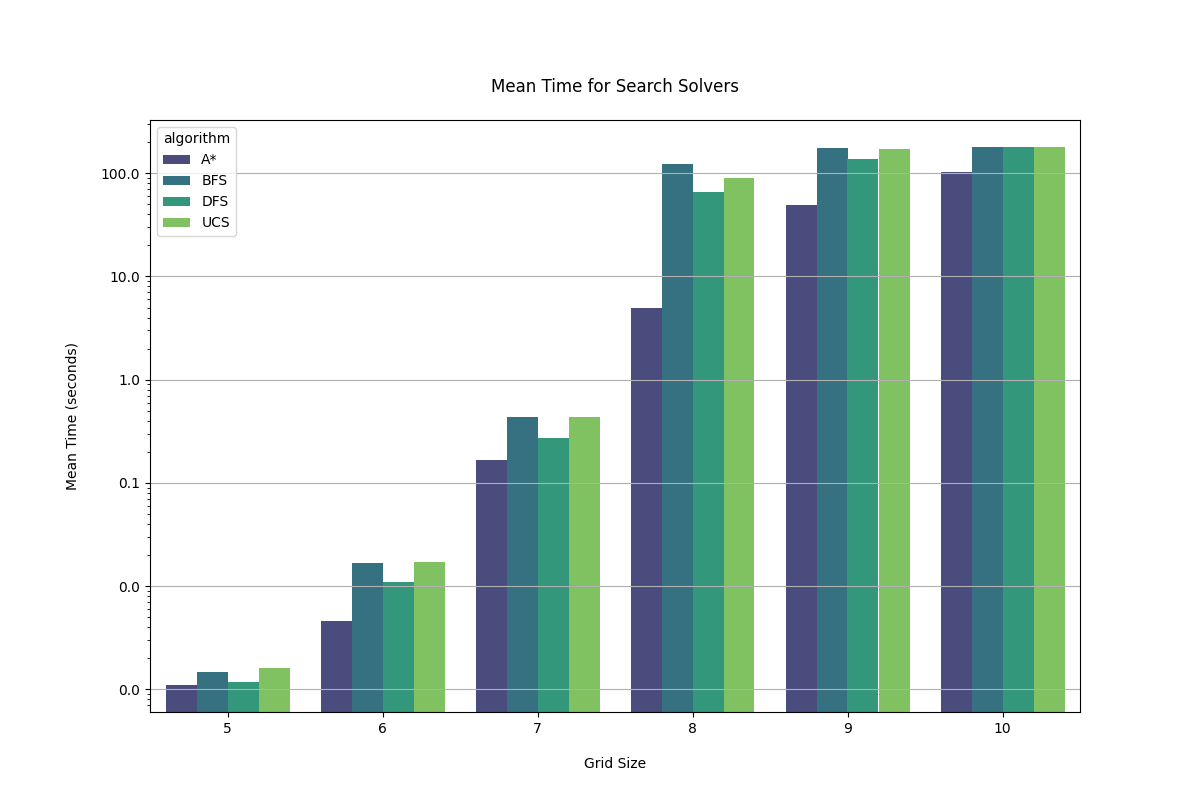
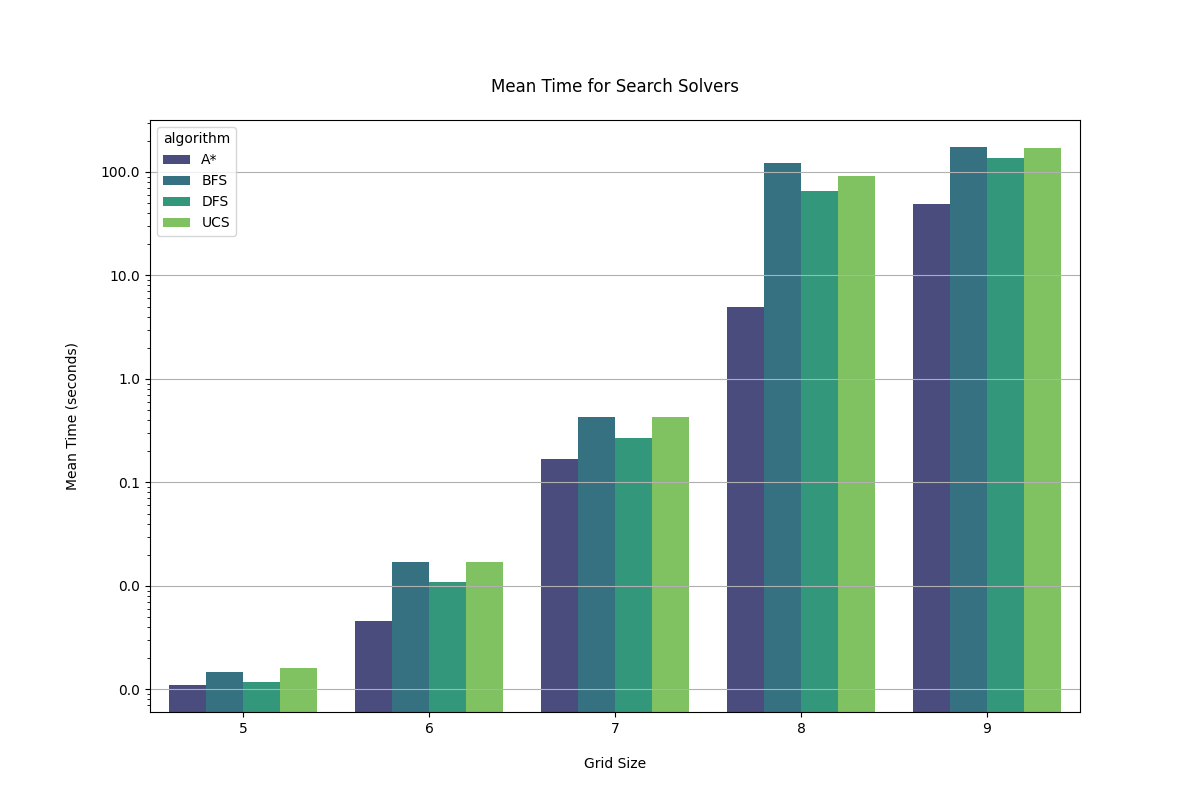
add some plots

Changed region(s): [[0.1542, 0.1562, 0.8942, 0.9062], [0.0925, 0.7188, 0.1233, 0.75], [0.0925, 0.1875, 0.1233, 0.2188]]

diff --git a/results/plots.py b/results/plots.py
@@ -3,6 +3,7 @@ import matplotlib.pyplot as plt
 import seaborn as sns
 from matplotlib.ticker import FuncFormatter
 import matplotlib.ticker as mticker
+import plotly.express as px
 
 MAX_TIME = 180
 
@@ -16,13 +17,11 @@ def load_results():
     search_results = pd.read_csv('Search_results.csv')
     return sat_results, search_results
 
-
-
 def create_single_search_algo_bar_plot(search_algo_name, total_results):
     """
     Create a bar plot of the search results for a single algorithm.
     :param search_algo_name: name of the search algorithm
-    :param total_results: total results to plot
+    :param total_results: total results of the search algorithms
     """
     # First, select all the results for the search algorithm name
     total_results = total_results[total_results['algorithm'] == search_algo_name]
@@ -66,8 +65,11 @@ def create_single_search_algo_bar_plot(search_algo_name, total_results):
     # Save the plot
     plt.savefig(f'{search_algo_name}_results.png')
 
-
 def create_expended_nodes_bar_plot_for_all_search_algorithms(total_results):
+    """
+    Create a bar plot of the mean number of expended nodes for all search algorithms.
+    :param total_results: total results to plot
+    """
     # Group the data by algorithm and grid size and calculate the mean number of expended nodes
     mean_expended_nodes = total_results.groupby(['algorithm', 'grid size'])['expended nodes'].mean().reset_index()
 
@@ -98,6 +100,10 @@ def create_expended_nodes_bar_plot_for_all_search_algorithms(total_results):
     plt.savefig('Search_Expended_Nodes_Results.png')
 
 def create_bar_plot_for_all_search_algorithms(total_results):
+    """
+    Create a bar plot of the mean time for all search algorithms.
+    :param total_results: total results of the search algorithms
+    """
     # create a bar plot for all search algorithms
     mean_times = total_results.groupby(['algorithm', 'grid size'])['time'].mean().reset_index()
 
@@ -127,8 +133,12 @@ def create_bar_plot_for_all_search_algorithms(total_results):
     # Save the plot
     plt.savefig('Search_results.png')
 
-
 def create_expended_nodes_bar_plot(search_algo_name, total_results):
+    """
+    Create a bar plot of the mean number of expended nodes for a single search algorithm.
+    :param search_algo_name: name of the search algorithm
+    :param total_results: total results of the search algorithms
+    """
     total_results = total_results[total_results['algorithm'] == search_algo_name]
     mean_times = total_results.groupby(['algorithm', 'grid size'])[
         'expended nodes'].mean().reset_index()
@@ -175,7 +185,6 @@ def create_expended_nodes_bar_plot(search_algo_name, total_results):
     # Save the plot
     plt.savefig(f'{search_algo_name}_expended_nodes_result.png')
 
-
 def create_sat_results_bar_plot(results):
     """
     Create a bar plot of the SAT results.
@@ -208,28 +217,206 @@ def clip_time(results):
     results['time'] = results['time'].clip(upper=MAX_TIME)
     return results
 
-def create_success_rate_graph(results):
-    pass
+def create_success_rate_chart(algorithm, search_results):
+    # Filter by the specified algorithm
+    search_results = search_results[search_results['algorithm'] == algorithm]
+
+    # Define success and failure based on time (<= 180 is success, > 180 is failure)
+    search_results['success'] = search_results['time'] <= 180
+
+    # Calculate the success and failure counts per grid size
+    success_failure_by_grid = search_results.groupby(
+        ['grid size', 'success']).size().reset_index(name='count')
+
+    # Calculate total count per grid size
+    total_by_grid = success_failure_by_grid.groupby('grid size')[
+        'count'].sum().reset_index(name='total')
+
+    # Merge total count with success_failure_by_grid to calculate percentages
+    success_failure_by_grid = success_failure_by_grid.merge(total_by_grid,
+                                                            on='grid size')
+    success_failure_by_grid['percentage'] = (success_failure_by_grid['count'] /
+                                             success_failure_by_grid[
+                                                 'total']) * 100
+
+    # Create a label column to identify success or failure
+    success_failure_by_grid['label'] = success_failure_by_grid[
+        'success'].apply(lambda x: 'Success' if x else 'Failure')
+
+    # Format the labels for the outer ring
+    success_failure_by_grid['outer_label'] = success_failure_by_grid.apply(
+        lambda row: f"Grid Size {row['grid size']} ",
+        axis=1)
+
+    # Create the sunburst chart using plotly express
+    fig = px.sunburst(
+        success_failure_by_grid,
+        path=['label', 'outer_label'],
+        values='count',
+        color='label',
+        color_discrete_map={'Success': '#63B2FF', 'Failure': '#FF6F61'},
+        hover_data={'percentage': ':'}
+    )
+
+    # Update the labels for the inner ring
+    fig.update_traces(textinfo='label+percent entry',
+                      texttemplate='%{label}: %{percentParent}')
+
+    # Update layout to include title with spacing
+    fig.update_layout(
+        title={
+            'text': f"{algorithm}: Success and Failure by Grid Size",
+            'x': 0.5,
+            'y': 0.95,  # Adjusted to give more space from the top
+            'xanchor': 'center',
+            'yanchor': 'top',
+            'pad': {'b': 10}  # Extra padding to prevent title cut off
+        },
+        sunburstcolorway=['#63B2FF', '#FF6F61'],
+        margin=dict(t=80, l=0, r=0, b=0),  # Added top margin for the title
+        uniformtext=dict(minsize=10, mode='hide'),
+    )
+
+    fig.write_image(f'{algorithm}_success_failure.png', width=800, height=600)
+
+def create_line_graph(search_results, sat_results):
+    # Group the search results by algorithm and grid size and calculate the mean time
+    mean_times = search_results.groupby(['algorithm', 'grid size'])['time'].mean().reset_index()
+
+    # Ensure both DataFrames have a common structure
+    sat_results['algorithm'] = 'SAT'  # Rename to just SAT for the legend
+
+    # Rename BFS in the search results to BFS (Baseline)
+    mean_times['algorithm'] = mean_times['algorithm'].replace('BFS', 'BFS (Baseline)')
+
+    # Merge the sat results with the search results
+    merged_results = pd.concat([mean_times, sat_results], axis=0)
+
+    # Create the line graph using plotly express with different markers and line styles
+    fig = px.line(
+        merged_results,
+        x='grid size',
+        y='time',
+        color='algorithm',
+        line_dash='algorithm',  # Use different line styles for each algorithm
+        markers=True,           # Add markers to each point
+        title='Time Taken by Algorithm and Grid Size'
+    )
+
+    # Update the layout to include a title with spacing and other customizations
+    fig.update_layout(
+        title={
+            'text': 'Mean Time for each Algorithm',
+            'x': 0.5,
+            'y': 0.95,
+            'xanchor': 'center',
+            'yanchor': 'top',
+            'pad': {'b': 10}
+        },
+        margin=dict(t=80, l=0, r=0, b=60),  # Further increase bottom margin
+        legend_title_text='Algorithm'  # Change legend title to 'Algorithm'
+    )
+
+    # Label x, y axes and ensure y-axis starts slightly below the minimum value
+    fig.update_xaxes(title_text='Grid Size')
+    fig.update_yaxes(title_text='Mean Time (seconds)', range=[-5, 200], tickvals=[0, 50, 100, 150, 180])
+
+    # Save the line graph
+    fig.write_image('All_Algorithms_Line_Graph.png')
+
+def compare_heuristics():
+    # Read the data into DataFrames
+    df_md = pd.read_csv("A_star_md.csv")
+    df_combined = pd.read_csv("A_star_good_heuristic.csv")
+
+    # Add a column to each DataFrame to indicate the heuristic type
+    df_md['Heuristic'] = 'Manhattan Distance Heuristic'
+    df_combined['Heuristic'] = 'Combined Heuristic'
+
+    # Concatenate the two DataFrames
+    df_combined = pd.concat([df_md, df_combined])
+
+    # Create a line plot comparing the two heuristics
+    fig = px.line(df_combined, x='level', y='expended nodes',
+                  color='Heuristic', markers=True,
+                  labels={
+                      "level": "Level",
+                      "expended nodes": "Expended Nodes",
+                      "Heuristic": "Heuristic"
+                  },
+                  title="Comparison of Nodes Expanded by Different Heuristics in A* Algorithm")
+
+    # save the plot
+    fig.write_image('Heuristic_Comparison.png')
+    # fig.show()
+
+def compare_state_space(results):
+    fig = px.line(
+        results,
+        x="level",
+        y="expended nodes",
+        color="state space",
+        line_dash="state space",
+        title="Number of Expended Nodes in BFS: Optimized vs Non-Optimized",
+        markers=True
+    )
+
+    fig.update_traces(line=dict(width=2))
+    fig.write_image('State_Space_Comparison.png')
+
+
+
+
+
+
 
 
 if __name__ == "__main__":
     sat_results, search_results = load_results()
-    search_results = clip_time(search_results)
+    # search_results = clip_time(search_results)
 
     # SAT results
     # create_sat_results_bar_plot(sat_results)
 
     # Search results
-    create_single_search_algo_bar_plot("BFS", search_results)
-    create_single_search_algo_bar_plot("DFS", search_results)
-    create_single_search_algo_bar_plot("UCS", search_results)
-    create_single_search_algo_bar_plot("A*", search_results)
-    create_expended_nodes_bar_plot("BFS", search_results)
-    create_expended_nodes_bar_plot("DFS", search_results)
-    create_expended_nodes_bar_plot("UCS", search_results)
-    create_expended_nodes_bar_plot("A*", search_results)
-    create_bar_plot_for_all_search_algorithms(search_results)
-    create_expended_nodes_bar_plot_for_all_search_algorithms(search_results)
+
+    # runtime
+    # create_single_search_algo_bar_plot("BFS", search_results)
+    # create_single_search_algo_bar_plot("DFS", search_results)
+    # create_single_search_algo_bar_plot("UCS", search_results)
+    # create_single_search_algo_bar_plot("A*", search_results)
+
+    # expended nodes
+    # create_expended_nodes_bar_plot("BFS", search_results)
+    # create_expended_nodes_bar_plot("DFS", search_results)
+    # create_expended_nodes_bar_plot("UCS", search_results)
+    # create_expended_nodes_bar_plot("A*", search_results)
+    # create_bar_plot_for_all_search_algorithms(search_results)
+    # create_expended_nodes_bar_plot_for_all_search_algorithms(search_results)
+
+    # # compare heuristics
+    # compare_heuristics()
+
+    # compare state space
+    base_line_results = pd.read_csv('BaseLineResults.csv')
+    compare_state_space(base_line_results)
+
+    # success rate
+    # create_success_rate_chart("BFS", search_results)
+    # create_success_rate_chart("DFS", search_results)
+    # create_success_rate_chart("UCS", search_results)
+    # create_success_rate_chart("A*", search_results)
+
+    # combined results
+    # line graph
+    # search_results_updated = pd.read_csv('Search_results_base_and_a_star.csv')
+    # search_results_updated = clip_time(search_results_updated)
+    # create_line_graph(search_results_updated, sat_results)
+
+
+
+
+
 
 
 

diff --git a/evaluate_solvers.py b/evaluate_solvers.py
@@ -12,8 +12,8 @@ import time
 SAT_FAILED = "UNSAT"
 LINE_FORMAT_ERROR = "Unexpected line format"
 NUMBER_OF_LEVELS_PER_GRID_SIZE = 10
-MIN_GRID_SIZE = 10
-MAX_GRID_SIZE = 10
+MIN_GRID_SIZE = 8
+MAX_GRID_SIZE = 8
 TIMEOUT = 180
 
 sat_results = pd.DataFrame(columns=['grid size','level', 'time'])
@@ -214,6 +214,10 @@ def evaluate_algorithms_for_grid_size(algorithm_name, grid_size, levels_list):
         solvers.get(algorithm_name)(levels_list, grid_size)
 
 def save_dataframe(algorithm_name):
+    """
+    Save the results to a csv file.
+    :param algorithm_name: name of the algorithm
+    """
     convert_pd_types()
     dataframe = None
     # save the dataframe to a csv file
@@ -221,9 +225,12 @@ def save_dataframe(algorithm_name):
         dataframe = sat_results
     elif algorithm_name == "Search":
         dataframe = search_results
-    dataframe.to_csv(f'results//{algorithm_name}_grid_10_results.csv', index=False)
+    dataframe.to_csv(f'results//A_star_good_heuristic.csv', index=False)
 
 def convert_pd_types():
+    """
+    Convert the types of the dataframes.
+    """
     global sat_results, search_results
     sat_results = sat_results.astype(
         {'grid size': 'int64', 'level': 'int64', 'time': 'float64'})
